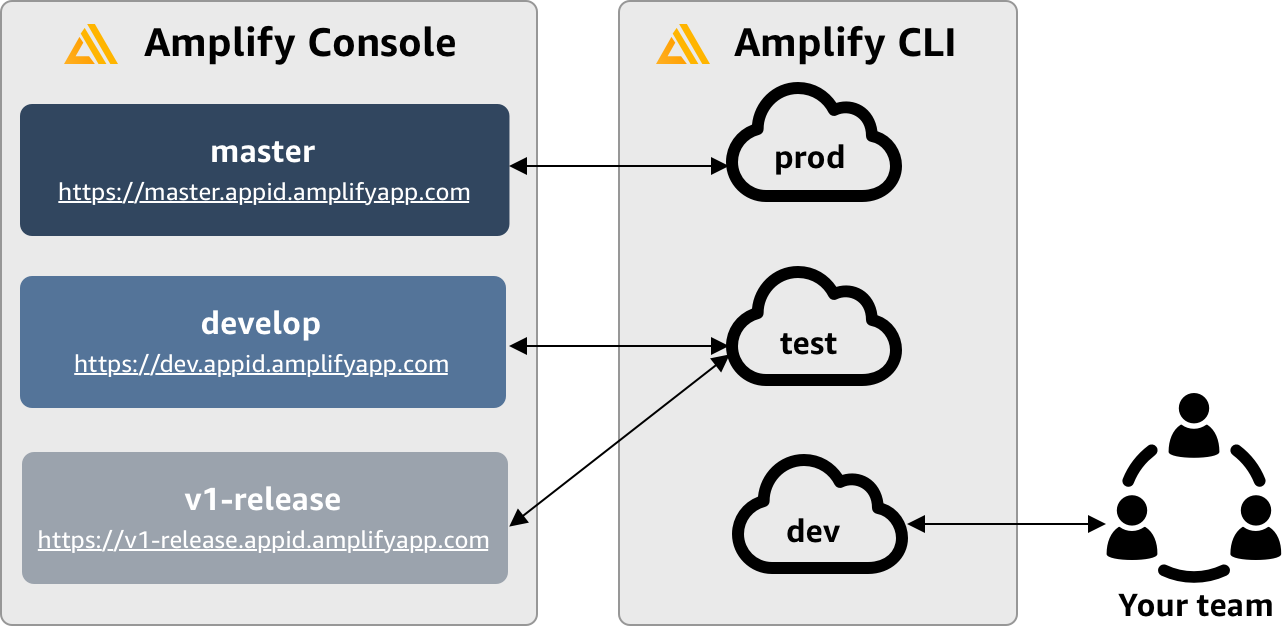
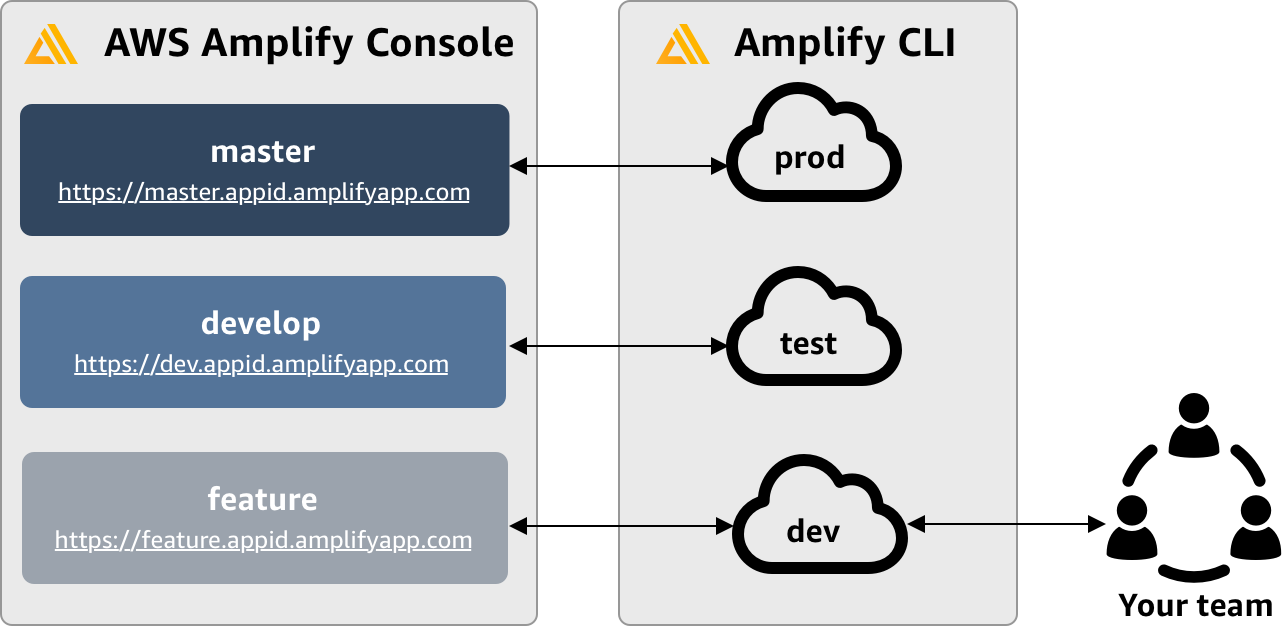
Updated feature branch deployments to include gitflow and feature branches

diff --git a/doc_source/multi-environments.rst b/doc_source/multi-environments.rst
@@ -4,7 +4,7 @@
 Feature branch deployments and team workflows
 #################################################
 
-The Amplify Console leverages Git branches to create new deployments every time a developer connects a new branch in their repository. After connecting your first branch, you can create a new environment by adding a branch as follows:
+The Amplify Console is designed to work with feature branch and GitFlow workflows. The Amplify Console leverages Git branches to create new deployments every time a developer connects a new branch in their repository. After connecting your first branch, you can create a new feature branch deployment by adding a branch as follows:
 
 1. On the branch list page, choose **Connect branch**.
 
@@ -12,33 +12,16 @@ The Amplify Console leverages Git branches to create new deployments every time 
 
 3. Save and then deploy your app.
 
-Your app now has two deployments available at `https://master.appid.amplifyapp.com` and `https://dev.appid.amplifyapp.com`.
+Your app now has two deployments available at `https://master.appid.amplifyapp.com` and `https://dev.appid.amplifyapp.com`. This may vary from team-to-team, but typically the **master branch** tracks release code and is your production branch. The **develop branch** is used as an integration branch to test new features. This way beta testers can test unreleased features on the develop branch deployment, without affecting any of the production end users on the master branch deployment.
 
 .. image:: images/amplify-environments-1.png
    :align: center
 
-A feature branch deployment can consist of a **frontend** and (optionally) a **backend**. The frontend is built and deployed to a global CDN, while the backend is deployed by the Amplify CLI to AWS.
 
-Recommended Team Workflow
-====================
-
-The Amplify Console is designed to work with feature branch and GitFlow workflows. GitFlow simplifies parallel development by isolating new development from completed work. The following workflow works well with the Amplify Console:
-
-* The **master branch** tracks release code and is your production branch. 
-* The **develop branch** is used as an integration branch to test new features with production.
-* New development (such as features and non-emergency bug fixes) is done in **feature branches**.
-* When the developer is satisfied that the code is ready for release, the feature branch is merged back into the integration develop branch. 
-* The only commits to the master branch are merges from release branches and hotfix branches (to fix emergency bugs).
-
-This way beta testers can test unreleased features on the develop branch deployment, without affecting any of the production end users on the master branch deployment.
-
-.. image:: images/amplify-environments.png
-   :align: center
-   :width: 300px
-
-Feature branch deployments with Amplify CLI environments
+Team workflows with Amplify CLI backend environments
 ===============================
 
+A feature branch deployment can consist of a **frontend** and (optionally) a **backend**. The frontend is built and deployed to a global CDN, while the backend is deployed by the Amplify CLI to AWS.
 You can use the Amplify Console to continuously deploy backend resources such as GraphQL APIs and Lambda functions with your feature branch deployment. You can use the following models to deploy your backend and frontend with the Amplify Console:
 
 .. contents::
@@ -47,12 +30,12 @@ You can use the Amplify Console to continuously deploy backend resources such as
 
 .. _standard:
 
-Standard - prod, test, and dev backends
+Feature branch workflow
 ~~~~~~~~~~~~~~~~~~~~~~~~~~~~~~~~~~~~~~~~~
 
 * Create **prod**, **test**, and **dev** backend environments with the Amplify CLI.
 * Map **prod** and **test** to **master** and **develop** branches.
-* Teammates can use the **dev** backend environment to test against from `localhost`.
+* Teammates can use the **dev** backend environment to test against **feature** branches.
 
 .. image:: images/amplify-environments-2.png
    :align: center
@@ -64,18 +47,19 @@ Standard - prod, test, and dev backends
 
         npm install -g @aws-amplify/cli
 
-2. Initialize a `dev` backend environment for your project. If you don't have a project, create one using bootstrap tools like create-react-app or Gatsby.
+2. Initialize a `prod` backend environment for your project. If you don't have a project, create one using bootstrap tools like create-react-app or Gatsby.
 
     .. code-block:: none
 
+        create-react-app next-unicorn
         cd next-unicorn
         amplify init
          ? Do you want to use an existing environment? (Y/n): n 
-         ? Enter a name for the environment: dev
+         ? Enter a name for the environment: prod
         ...
         amplify push
 
-3. Add `test` and `prod` backend environments.
+3. Add `test` and `dev` backend environments.
 
     .. code-block:: none
 
@@ -87,7 +71,7 @@ Standard - prod, test, and dev backends
 
         amplify env add
          ? Do you want to use an existing environment? (Y/n): n 
-         ? Enter a name for the environment: prod
+         ? Enter a name for the environment: dev
         ...
         amplify push
 
@@ -98,11 +82,15 @@ Standard - prod, test, and dev backends
         git commit -am 'Added dev, test, and prod environments'
         git push origin master
 
-5. Connect your repo > `master` to the Amplify Console.
+5. Connect your repo > branch `master` to the Amplify Console.
 
 6. The Amplify Console will detect backend environments created by the Amplify CLI. Choose `prod` from the dropdown and grant the service role to Amplify Console. Choose **Save and deploy**. After the build completes you will get a master branch deployment available at `https://master.appid.amplifyapp.com`.
 
-7. Connect `develop` branch in Amplify Console (assume `develop` and `master` brach are the same at this point). As soon as you connect the branch, go to `App settings > Environment variables` and add a branch override for USER_ENV as shown below.
+	.. image:: images/reuse-backend-2.png
+
+7. Connect `develop` branch in Amplify Console (assume `develop` and `master` branch are the same at this point). As soon as you connect the branch, go to `App settings > Environment variables` and add a branch override for USER_BRANCH as shown below.
+
+	.. image:: images/reuse-backend.gif
 
 8. The Amplify Console is now setup. You can start working on new features in a feature branch. Add backend functionality by using the `dev` backend environment from your local workstation.
 
@@ -112,15 +100,52 @@ Standard - prod, test, and dev backends
         amplify env checkout dev
         amplify add api
         ...
+        amplify push
 
-9. After you finish working on the feature, commit your code, create a pull request to review internally, and if everything looks good merge the PR to dev.
+9. After you finish working on the feature, commit your code, create a pull request to review internally.
 
     .. code-block:: none
 
     	git commit -am 'Decentralized internet v0.1'
         git push origin newinternet
 
-10. This will kickoff a build in the Amplify Console with a branch deployment at `https://dev.appid.amplifyapp.com`. You can share this link with internal stakeholders so they can review your app.
+10. To preview what the changes will look like, go to the Console and connect your feature branch. Note: If you have the AWS CLI installed on your system (Not the Amplify CLI), you can connect a branch directly from your terminal. You can find your appid by going to App settings > General > AppARN: `arn:aws:amplify:<region>:<region>:apps/<appid>` 
+
+    .. code-block:: none
+
+    	aws amplify create-branch --app-id <appid> --branch-name <branchname>
+    	aws amplify start-job --app-id <appid> --branch-name <branchname> --job-type RELEASE
+
+11. Your feature will be accessible at `https://newinternet.appid.amplifyapp.com` to share with your teammates. If everything looks good merge the PR to the develop branch.
+
+    .. code-block:: none
+
+    	git checkout develop
+    	git merge newinternet
+    	git push
+
+12. This will kickoff a build that will update the backend as well as the frontend in the Amplify Console with a branch deployment at `https://dev.appid.amplifyapp.com`. You can share this link with internal stakeholders so they can review the new feature.
+
+13. Delete your feature branch from Git, Amplify Console, and remove the backend environment from the cloud (you can always spin up a new one based on by running 'amplify env checkout prod' and running 'amplify env add').
+
+    .. code-block:: none
+
+    	git push origin --delete newinternet
+    	aws amplify delete-branch --app-id <appid> --branch-name <branchname>
+    	amplify env remove dev
+
+.. _gitflow:
+
+GitFlow workflow
+~~~~~~~~~~~~~~~~~
+
+GitFlow uses two branches to record the history of the project. The `master` branch tracks release code only, and the `develop` branch is used as an integration branch for new features. GitFlow simplifies parallel development by isolating new development from completed work. New development (such as features and non-emergency bug fixes) is done in `feature` branches. When the developer is satisfied that the code is ready for release, the `feature` branch is merged back into the integration `develop` branch. The only commits to the master branch are merges from `release` branches and `hotfix` branches (to fix emergency bugs). 
+
+The diagram below shows a recommended setup with GitFlow. You can follow the same process as described in the feature branch workflow section above.
+
+.. image:: images/amplify-environments-3.png
+   :align: center
+   :width: 600px
 
 .. _sandbox:
 
@@ -130,8 +155,9 @@ Per-developer sandbox
 * Each developer in a team creates a sandbox environment in the cloud that is separate from their local computer. This allows developers to work in isolation from each other without overwriting other team members' changes.
 * Each branch in the Amplify Console has its own backend. This ensures that the Amplify Console uses the Git repository as a single source of truth from which to deploy changes, rather than relying on developers on the team to manually push their backend or front end to production from their local computers.
 
-.. image:: images/amplify-env-gitflow-workflow.png
+.. image:: images/amplify-env-central-workflow.png
    :align: center
+   :width: 300px
 
 1. Install the Amplify CLI to initialize a new Amplify project.
 
@@ -139,14 +165,14 @@ Per-developer sandbox
 
         npm install -g @aws-amplify/cli
 
-2. Initialize a `nikhil` backend environment for your project. If you don't have a project, create one using bootstrap tools like create-react-app or Gatsby.
+2. Initialize a `kita` backend environment for your project. If you don't have a project, create one using bootstrap tools like create-react-app or Gatsby.
 
     .. code-block:: none
 
         cd next-unicorn
         amplify init
          ? Do you want to use an existing environment? (Y/n): n 
-         ? Enter a name for the environment: nikhil
+         ? Enter a name for the environment: kita
         ...
         amplify push
 
@@ -154,11 +180,13 @@ Per-developer sandbox
 
     .. code-block:: none
 
-        git commit -am 'Added nikihl sandbox'
+        git commit -am 'Added kita sandbox'
         git push origin master
 
 5. Connect your repo > `master` to the Amplify Console.
 
 6. The Amplify Console will detect backend environments created by the Amplify CLI. Choose `Create new environment` from the dropdown and grant the service role to Amplify Console. Choose **Save and deploy**. After the build completes you will get a master branch deployment available at `https://master.appid.amplifyapp.com` with a new backend environment that is linked to the branch.
-   
-7. Connect `develop` branch in Amplify Console (assume `develop` and `master` brach are the same at this point). After the build completes you will get a develop branch deployment available at `https://develop.appid.amplifyapp.com` with a new backend environment that is linked to the branch.
+
+	.. image:: images/reuse-backend-3.png
+
+7. Connect `develop` branch in Amplify Console (assume `develop` and `master` branch are the same at this point) and choose `Create new environment`. After the build completes you will get a develop branch deployment available at `https://develop.appid.amplifyapp.com` with a new backend environment that is linked to the branch.

diff --git a/doc_source/environment-variables.rst b/doc_source/environment-variables.rst
@@ -24,9 +24,14 @@ Setting Environment Variables
 
 #. Choose **Save**.
 
-If you need to customize a variable specifically for a branch, you can add a branch override. To do this, choose **Actions** and then choose **Add variable override**. You now have a set of environment variables specific to your branch. 
 
 .. image:: images/envvars.png
+   :width: 600px
+
+If you need to customize a variable specifically for a branch, you can add a branch override. To do this, choose **Actions** and then choose **Add variable override**. You now have a set of environment variables specific to your branch. 
+
+.. image:: images/reuse-backend.gif
+   :width: 600px
 
 .. _access_env_vars: 
 

diff --git a/doc_source/how-to-service-role-amplify-console.rst b/doc_source/how-to-service-role-amplify-console.rst
@@ -29,5 +29,6 @@ In the Amplify Console onboarding screen, choose **refresh**, and then pick the 
 If you already have an existing app, you can find the service role setting in **App settings > General** and then choose **Edit** from the top right corner of the box. Pick the service role you just created from the dropdown and choose **Save**.
 
 .. image:: images/amplify-servicerole2.png
+   :width: 500px
 
 The Amplify Console now has permissions to deploy backend resources.
